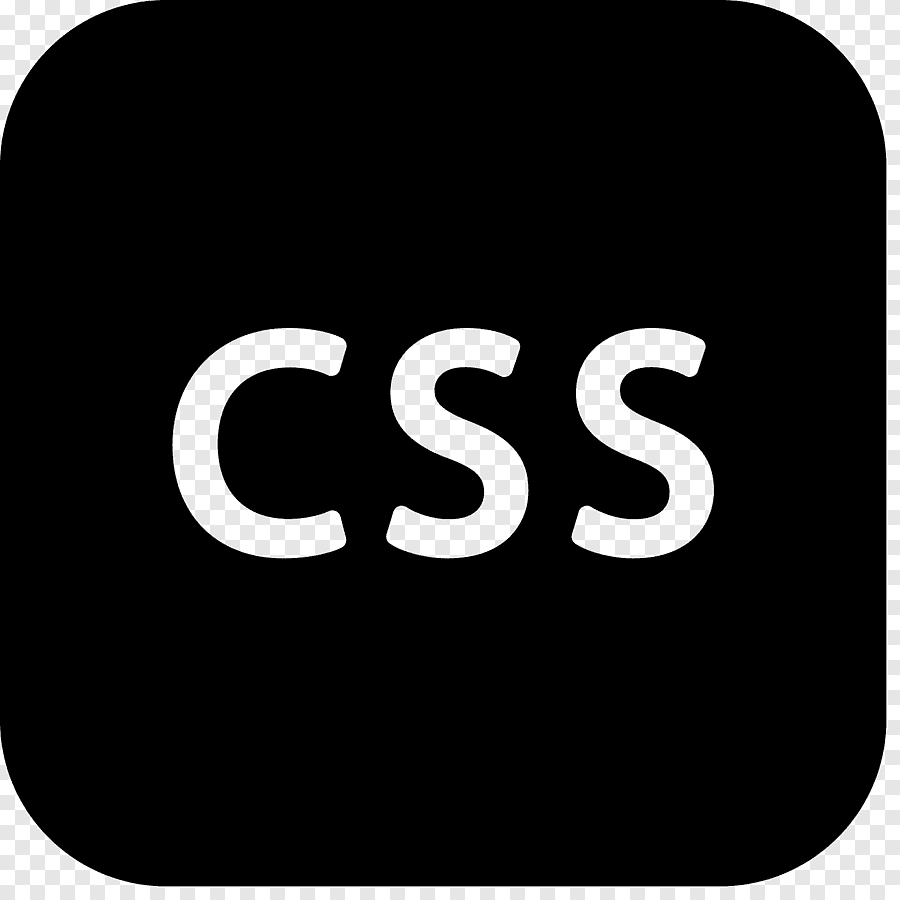
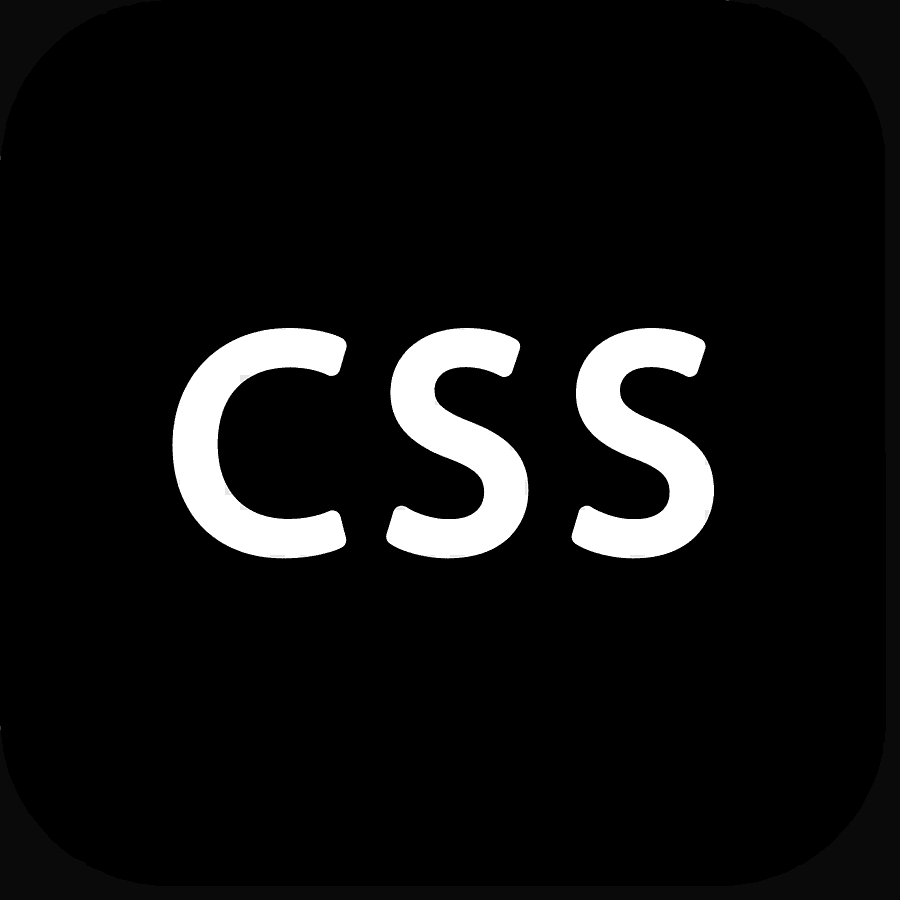
added Language Images in "about me"

diff --git a/index.html b/index.html
@@ -20,7 +20,7 @@
 
         <div class="start">
             <div>
-                <h1><font face="Courier New">Денис Панюхин</font></h1>
+                <h1><font face="Courier New">Денис Панюхин Алексеевич</font></h1>
                 <p><font face="Courier New">Новичок в языках: HTML, CSS, JS, C++</font></p>
             </div>
              <div><img src="Images/top.png"></div>
@@ -42,8 +42,9 @@
                 <div class="Lang-imgs">
                     <div class="Language"><img src="Images/сplus.png" alt=""></div>
                         <div class="Language"><img src="Images/html.png" alt=""></div>
-                
-                    </div>
+                <div class="Language"><img src="Images/css.png" alt=""></div>
+                <div class="Language"><img src="Images/js.png" alt=""></div>
+            </div>
             </div>
 
 

diff --git a/style.css b/style.css
@@ -61,7 +61,7 @@ padding-left: 20px;
 .AboutMe {
     display: flex;
     justify-content: space-between;
-    margin-top: 300px;
+    margin-top: 375px;
     background-color: white;
 }
 .AboutMe > div > img {
@@ -76,13 +76,10 @@ padding-left: 20px;
 .bg-clr {
     background-color: rgb(10,10,10);
     width: auto;
-    height: 800px;
+    height: 600px;
 }
 .bg-clr > p {
     font-size: 10px;
-}
-.AboutMe-Info {
-
 }
 .AboutMe-Info > div> p {
     font-size: 25px;
@@ -92,8 +89,9 @@ padding-left: 20px;
     display: flex;
 }
 .Language > img {
+    padding-left: 50px;
+    width: 250px;
 padding-top: 20px;
-    border-radius: 0%;
-    background-color: ;
+border-radius: 0%;
 }
 
